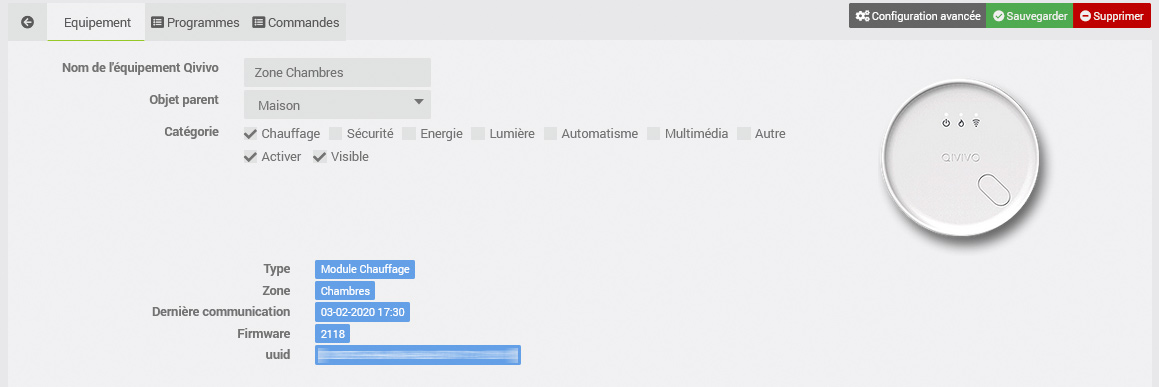
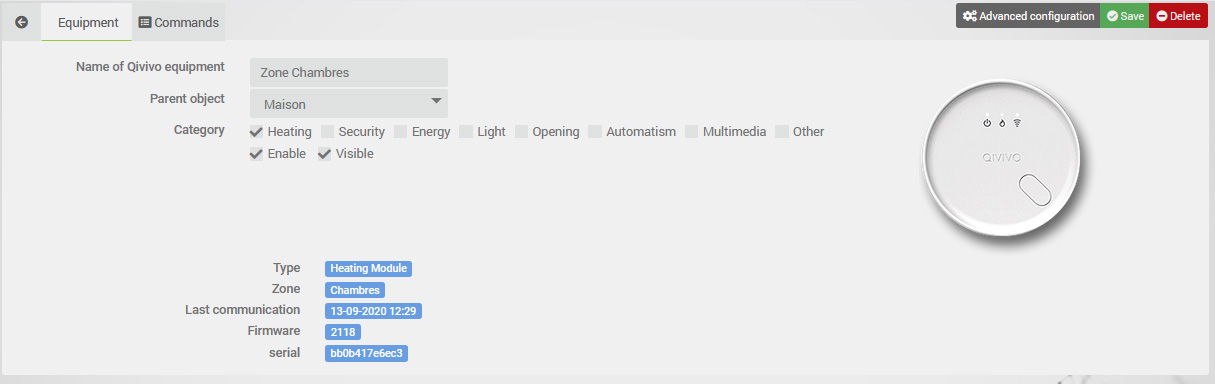
Beta to Stable Qivivo/Comap v2!

diff --git a/plugins/qivivo/fr_FR/index.md b/plugins/qivivo/fr_FR/index.md
@@ -9,9 +9,8 @@ description: Intégration du Thermostat Qivivo.
 
 *[Lien market](https://www.jeedom.com/market/index.php?v=d&p=market&type=plugin&plugin_id=3551)*
 
-Intégration du Thermostat [Qivivo.](https://www.qivivo.com/fr/)
+Intégration du Thermostat [Qivivo / Comap.](https://www.comapsmarthome.com/fr/)
 
-[Pré-requis](#pré-requis)<br />
 [Configuration](#configuration)<br />
 [Utilisation](#utilisation)<br />
 [Actions](#actions)<br />
@@ -21,24 +20,19 @@ Intégration du Thermostat [Qivivo.](https://www.qivivo.com/fr/)
 [Changelog](changelog.md)<br />
 
 
-## Pré-requis
-Ce plugin repose en partie sur l'API officielle Qivivo, vous devez donc créer un accès (gratuit) sur cette API, puis récupérer vos Client ID et Secret ID.
-[account.qivivo.com](https://account.qivivo.com/)
-
-
 ## Configuration
 
 Après installation, activez le plugin. Il apparaîtra alors dans le menu *Plugins > Confort*.
 - Ouvrez la page du plugin, puis cliquez sur *Configuration*.
-- Renseignez vos Login, password Qivivo, et vos Client ID et Secret ID.
+- Renseignez vos Login, password Qivivo / Comap.
 - Cliquez sur *Synchroniser mes équipements*.
 
-{% include lightbox.html src="qivivo/images/config.jpg" data="qivivo" title="Configuration" imgstyle="width:550px;display: block;margin: 0 auto;" %}
+{% include lightbox.html src="qivivo/images/config2.jpg" data="qivivo" title="Configuration" imgstyle="width:550px;display: block;margin: 0 auto;" %}
 
 Ceci aura pour effet d'installer votre thermostat, la passerelle (qui n'a ici aucune fonction), et vos modules fil-pilote, nommés par zone.
 Il ne vous reste qu'à rafraîchir la page du plugin (F5) !
 
-{% include lightbox.html src="qivivo/images/plugin.jpg" data="qivivo" title="Plugin" imgstyle="width:550px;display: block;margin: 0 auto;" %}
+{% include lightbox.html src="qivivo/images/plugin2.jpg" data="qivivo" title="Plugin" imgstyle="width:550px;display: block;margin: 0 auto;" %}
 
 ## Utilisation
 
@@ -47,28 +41,26 @@ Renseignez pour chaque module, son nom et son Objet parent si nécessaire. Ils a
 ### Dashboard
 Voici un exemple sur le dashboard:
 
-{% include lightbox.html src="qivivo/images/dashboard.jpg" data="qivivo" title="Dashboard" imgstyle="width:550px;display: block;margin: 0 auto;" %}
+{% include lightbox.html src="qivivo/images/dashboard2.jpg" data="qivivo" title="Dashboard" imgstyle="width:550px;display: block;margin: 0 auto;" %}
 
 Vous pouvez ainsi visualiser:
 
-- La température de consigne du thermostat
-- La température mesurée par le thermostat
-- Le taux d'humidité mesuré par le thermostat
-- Si le thermostat relève une présence
-- La dernière présence relevée par le thermostat
-- L'ordre en cours par zone
-- Le programme en cours par zone
-- La date de dernière communication du module avec les serveurs Qivivo
+- La température de consigne du thermostat.
+- La température mesurée par le thermostat.
+- Le taux d'humidité mesuré par le thermostat.
+- La dernière présence relevée par le thermostat.
+- Le programme en cours.
+- L'ordre en cours par zone.
+- La date de dernière communication du module avec les serveurs Qivivo / Comap.
 
 > Quand vous changez la consigne du thermostat, l'affichage change sur le dashboard. Toutefois, la commande info de consigne n'est volontairement pas mise à jour. En effet, les programmes temporaires ne sont pas pris en compte immédiatement par Qivivo, cela peu prendre entre 1 et 5mins. De cette façon, l'historique de la consigne enregistrera les vraies valeurs de consigne du thermostat et sera mise à jour lors de la prise en compte par celui-ci.
-> Idéalement, il faudrait pouvoir savoir si un programme temporaire est en cours, mais l'API Qivivo ne remonte pas cette info. A voir dans le futur.
 
 Vous pouvez également:
 
-- Changer la température de consigne (pendant 2h) du thermostat
-- Annuler une programmation temporaire du thermostat
-- Changer l'ordre d'une zone
-- Changer le programme d'une zone
+- Changer la température de consigne (pendant 2h) du thermostat.
+- Annuler une programmation temporaire du thermostat ou d'une zone.
+- Changer l'ordre d'une zone.
+- Changer de programme.
 
 Vous pouvez bien sûr intégrer ces informations et actions dans des scénarios !
 
@@ -76,39 +68,21 @@ Vous pouvez bien sûr intégrer ces informations et actions dans des scénarios 
 
 Le thermostat dispose de plusieurs actions que vous pouvez intégrer normalement dans Jeedom, dans les scénarios par exemple.
 
-{% include lightbox.html src="qivivo/images/thermostat_actions.jpg" data="qivivo" title="Actions du thermostat" imgstyle="width:550px;display: block;margin: 0 auto;" %}
+{% include lightbox.html src="qivivo/images/thermostat_actions2.jpg" data="qivivo" title="Actions du thermostat" imgstyle="width:550px;display: block;margin: 0 auto;" %}
 
 > La commande SetTempérature permet de lancer un programme temporaire, de la même manière que par le site Qivivo ou physiquement sur le thermostat. Le thermostat dispose dans Jeedom d'une info *DuréeOrdre* qui sera la durée du programme temporaire. Celle-ci se remet à 120mins (comme pour le thermostat physique) toutes les 15mins (ou 5mins si vous activez le cron5). Toutefois, si vous souhaitez spécifier une autre durée, lancer une commande *SetDuréeOrdre* avant la commande *SetTempérature*.
 Vous pouvez également annuler un programme temporaire avec la commande *Annule_Ordre_Temp*.
 
-Les modules de zone disposent également de leurs actions *SetMode* pour changer d'ordre, et *SetProgramme* pour appliquer un programme que vous aurez créé auparavant.
+Les modules de zone disposent également de leurs actions *SetMode* pour changer d'ordre, et *Annule_Ordre_Temp* pour annuler un ordre temporaire.
 > Le module de la Zone Thermostat ne possède pas la commande *SetMode* puisqu'il est contrôlé par la consigne du thermostat.
-
-## Programmes
-
-{% include lightbox.html src="qivivo/images/programmes_2.jpg" data="qivivo" title="Programmes" imgstyle="width:550px;display: block;margin: 0 auto;" %}
-
-Sur chaque module, y compris celui de la zone thermostat, vous trouverez un onglet *Programmes*. Vous pourrez y créer plusieurs programmes, pour pouvoir en changer, depuis le dashboard ou depuis un scénario.
-
-> Sur chaque jour, vous pouvez bien sûr créer des périodes de chauffe, mais aussi copier un jour entier pour le coller ailleurs, y compris sur un autre programme.
-
-Une fois vos programmes créés et votre équipement sauvegardé, la liste de vos programmes apparaîtra sur la tuile de cette zone sur votre dashboard, et dans la liste proposée sur l'action *SetProgramme* dans vos scénarios.
-
-Vous pouvez également exporter chaque programme (un fichier json correspondant sera créé dans plugins/qivivo/exportedPrograms), pour pouvoir ensuite l'importer dans un autre programme.
-
-> Attention : les programmes de chauffe dans le plugin Jeedom ne correspondent pas aux programmes définits dans l'application Qivivo.
->
-> Si vous changer de programme depuis l'application Qivivo, Jeedom n'en saura rien et l'affichage des tuiles des zones ne correspondra pas.
-> De même, quand vous changez de programme avec le plugin Jeedom, il ne change pas de programme dans l'application Qivivo, mais change les programmations horaires du programme courant.
-> Si vous souhaitez utiliser la programmation avec le plugin, il est donc conseiller de ne pas toucher aux programmes depuis l'application Qivivo.
 
 ## Équipements
 
 ### Thermostat
 
-{% include lightbox.html src="qivivo/images/thermostat.jpg" data="qivivo" title="Thermostat" imgstyle="width:550px;display: block;margin: 0 auto;" %}
+{% include lightbox.html src="qivivo/images/thermostat2.jpg" data="qivivo" title="Thermostat" imgstyle="width:550px;display: block;margin: 0 auto;" %}
 
-Certaines informations sont visibles ici, notamment les réglages de température. Ce sont les mêmes que dans les réglages sur le site de Qivivo.
+Certaines informations sont visibles ici, notamment les réglages de température. Ce sont les mêmes que dans les réglages sur le site de Qivivo / Comap.
 
 ### Module fil-pilote
 
@@ -116,45 +90,17 @@ Certaines informations sont visibles ici, notamment les réglages de températur
 
 Le module fil-pilote possède une info *Ordre* affichant l'ordre courant sous forme lisible (*string*). Cette info n'est pas historisée, mais une autre info *OrdreNum* représente l'ordre sous forme de numéro de 1 à 6, et est historisée :
 
-- Arrêt : 1
-- Hors-Gel : 2
-- Eco : 3
-- Confort -2 : 4
-- Confort -1 : 5
-- Confort : 6
-
-## Historique
-
-Comme pour toutes les commandes dans Jeedom, vous pouvez bien sûr consulter l'historique de celles-ci et ainsi avoir une synthèse quotidienne, que Qivivo ne propose plus aux nouveaux clients depuis plus d'un an.
-
-{% include lightbox.html src="qivivo/images/design_synthese.jpg" data="qivivo" title="Historique" imgstyle="width:250px;display: block;margin: 0 auto;" %}
-
->Les commandes suivantes sont créées par défaut sans mode de lissage, en conservant les valeurs pendant 1an:
->- Thermostat Consigne
->- Thermostat Temperature
->- Thermostat Humidité
->- Thermostat Presence
->- Thermostat Chauffe
->- Module Chauffage OrdreNum
-
-Vous pouvez également ajouter un *Graphique* sur un Design pour avoir la synthèse pré-configurée. Une fois le graphique créé sur le design, faites un clic droit dessus puis *Configuration avancée* pour choisir vos courbes et paramètres.
-
-Exemple:
-{% include lightbox.html src="qivivo/images/synthese.jpg" data="qivivo" title="Paramètres historique" imgstyle="width:550px;display: block;margin: 0 auto;" %}
-
-> Vous pouvez bien sûr y ajouter d'autres courbes d'autres capteurs de températures, etc.
+- Arrêt : 0
+- Hors-Gel : 1
+- Eco : 2
+- Confort -2 : 3
+- Confort -1 : 4
+- Confort : 5
 
 ## Remarques
 
-### Fonctionnement
-- L'ensemble des fonctions du thermostat (changement de consigne, récupération des informations) repose sur l'API Qivivo.
-- L'API Qivivo ne gérant pas encore le multi-zone, toutes les fonctions de changement d'ordre et de programme par zone/module repose sur une [API développée début 2018](https://github.com/KiboOst/php-qivivoAPI).
-- Ce plugin n'utilise aucune dépendances et n'installe donc rien sur votre système en dehors de ses propres fichiers dans html/plugins/qivivo.
-
-*Le but à terme est de basculer entièrement sur l'API officielle, quand celle-ci proposera l'ensemble des fonctions dont le plugin a besoin.*
-
 ### Gestion des erreurs
-Il peux arriver que les serveurs de Qivivo ne répondent pas:
+Il peux arriver que les serveurs de Qivivo / Comap ne répondent pas:
 
 Lors d'un rafraîchissement des informations, si l'appel à l'API Qivivo échoue trois fois de suite, un log d'erreur sera créé.
 
@@ -179,11 +125,9 @@ config::save('functionality::cron5::enable', 0, 'qivivo');
 config::save('functionality::cron15::enable', 1, 'qivivo');
 ```
 
-Personnellement, j'ai un programme *Off* sur chaque zone, en Arrêt et Hors-Gel. Avec un *Mode* je passe la maison en *Travail*, *Vacances* ou *Absence*, qui ajuste le programme de chauffage en fonction. J'ai ensuite deux variables pour les dates de début et fin de chauffage, et en fonction, un scénario change le programme en *Off*, change le cron du plugin, et affiche ou masque les équipements sur le dashboard.
-
 ### Debug
 
-Si vous rencontrez des problèmes, l'équipement *passerelle* possède une commande *debug*. Vous pouvez cliquer sur *Tester*, ce qui générera un log qivivo_debug. Vous pouvez l'envoyer à kiboost->free.fr (ou mp sur le forum Jeedom) avec:
+Si vous rencontrez des problèmes, l'équipement *passerelle* possède une commande action *debug*. Vous pouvez cliquer sur *Tester*, ce qui générera un log qivivo_debug. Vous pouvez l'envoyer à kiboost->free.fr (ou mp sur le forum Jeedom) avec:
 - La description du problème.
 - Une description de votre installation Qivivo avec si possible des screens du site Qivivo.
 - Si vous êtes familier ou non du plugin outildev, pour pouvoir vous envoyer des correctifs de test plus facilement.

diff --git a/plugins/qivivo/fr_FR/changelog.md b/plugins/qivivo/fr_FR/changelog.md
@@ -15,7 +15,15 @@ Intégration du Thermostat [Qivivo.](https://www.qivivo.com/fr/)
 
 >*En cas de mise à jour non listée ici, c'est que celle-ci ne comporte que des changements mineurs du type documentation ou corrections de bugs mineurs.*
 
-### 08/09/2020
+### 15/09/2020
+- Version Stable suite à la refonte complète des site, app, et API Qivivo / Comap.
+Attention :
+	- Vous devez avoir déjà migré sur la nouvelle interface [Comap](https://app.comapsmarthome.com/real-time).
+	- Suppression des modules existants ! Vous devrez refaire une synchronisation puis adapter vos design, scenarios, résumés, etc. (aidez vous de Analyse / Équipements / Commandes orphelines).
+	- Suppression de toute la partie programmation. Les programmes sont repris depuis l'interface Qivivo/Comap, et sont maintenant synchronisés avec le plugin. Pensez à faire vos programmes sur l'interface Qivivo/Comap avant la mise à jour du plugin si possible.
+	- Le changement de programme se fait maintenant par le thermostat.
+
+### 08/09/2020 (beta)
 - [Première beta](https://community.jeedom.com/t/qivivo-comap-update-interface-comap-09-2020-v2/36490) pour l'adaptation aux nouvelles interfaces Qivivo/Comap.
 	- La doc n'est pas à jour avec la beta, elle le sera une fois le plugin en stable.
 	- Suppression de l'ancienne API officielle qui ne dialogue plus avec les modules.
